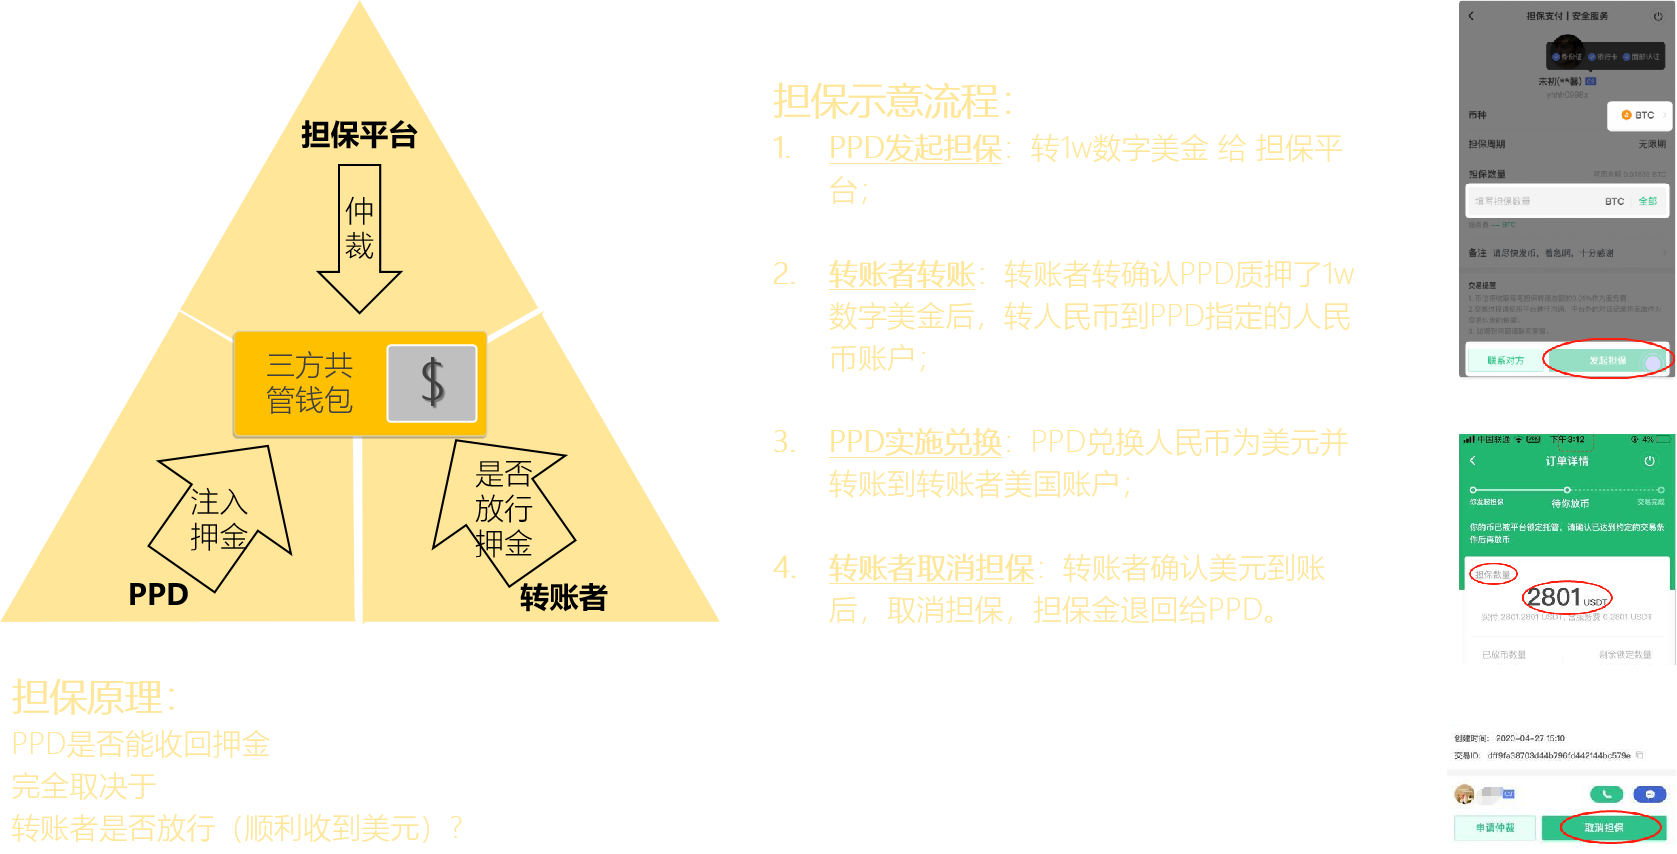
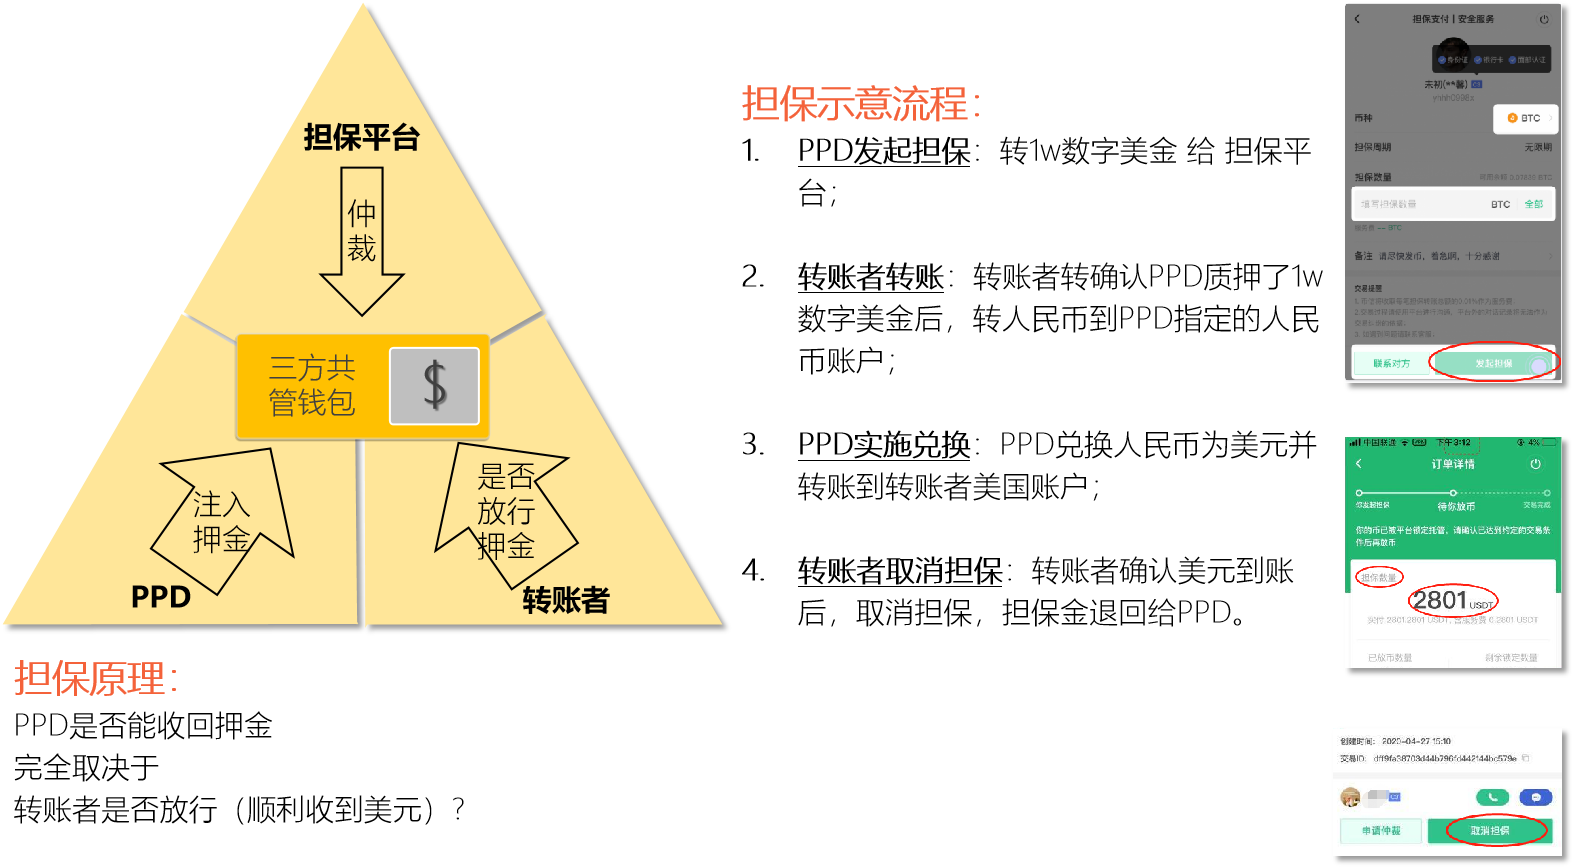
Change pictures to white backgroud and black characters. Rearrage index.md to links to other pages.

diff --git a/index.md b/index.md
@@ -10,16 +10,6 @@ header:
 
 
 sections:
-  - type: call-to-action.html
-    section_id: about
-    background_style: bg-primary
-    title: 跨境瞬移!
-    text: 虫洞能将复仇者联盟传送到2014的纽约！用虫洞将“资产传送到美国”，小菜一碟！
-    actions:
-      - title: 马上开始!
-        url: '#page-top'
-        class: btn-light
-
   - type: services.html
     section_id: services
     #background_style: bg-info
@@ -38,10 +28,20 @@ sections:
       - title: 费用实惠
         text: 无汇差（按中行实时汇率），仅4.9%服务费！
         icon: fa-heart
-      - title: 了解详情
+      - title: 马上开始
         text: 点击以下链接！
         icon: fa-heart
-        url: /services
+        url: /wormhole
+
+  - type: call-to-action.html
+    section_id: about
+    background_style: bg-primary
+    title: 支付方案!
+    text: 通过与PPD的合作，迪拜房产销售商达成了客户及利润倍增的效果！
+    actions:
+      - title: 了解详情!
+        url: '/payment'
+        class: btn-light
 
   - type: portfolio.html
     # this section has always ID 'portfolio'
@@ -76,14 +76,6 @@ sections:
         icon: 6.jpg
         url: '#'      
 
-  - type: aside.html
-    section_id: aside
-    title: 开始免费咨询
-    actions:
-      - title: Telegram us!
-        url: https://t.me/PPD_CustomerService
-        class: btn-light
-
   - type: timeline.html
     section_id: timeline
     title: 发展历程！
@@ -105,6 +97,14 @@ sections:
           2020
           出国留学汇款          
         text: >-
+
+  - type: aside.html
+    section_id: aside
+    title: 开始免费咨询
+    actions:
+      - title: Telegram us!
+        url: https://t.me/PPD_CustomerService
+        class: btn-light
 
   - type: contact.html
     section_id: contacts

diff --git a/wormhole.md b/wormhole.md
@@ -14,9 +14,9 @@ menus:
 
 			虫洞服务：**人民币兑换为美金，并转账到美国账户，1小时到账！**
 
-![4](assets/img/wormhole/4.png)
+<img src="assets/img/wormhole/4.png" style="zoom:75%;" />
 
-							<img src="assets/img/wormhole/fast1.png" style="zoom: 45%;" />	虫洞能将复仇者联盟 传送到2014的纽约；用虫洞将“资产传送到美国” 小菜一碟！
+							<img src="assets/img/wormhole/fast.png" style="zoom:45%;" />	虫洞能将复仇者联盟 传送到2014的纽约；用虫洞将“资产传送到美国” 小菜一碟！
 
 ------
 
@@ -39,7 +39,7 @@ menus:
 
    通过虫洞服务：以上两位客户，PPD均在1小时，突破额度限制把人民币兑换为美金，并转账到客户美国账户！
 
-   						<img src="assets/img/wormhole/fitto1.png" style="zoom:45%;" />     留学费用转账；预防人民币通货膨胀，配置美元资产；美国投资or买房……
+   						<img src="assets/img/wormhole/fitto.png" style="zoom:45%;" />     留学费用转账；预防人民币通货膨胀，配置美元资产；美国投资or买房……
 
    ------
 
@@ -51,7 +51,7 @@ menus:
 
 ### <img src="assets/img/wormhole/logo2.png" alt="logo2" style="zoom: 5%;" /> 虫洞服务 独到之处
 
-<img src="assets/img/wormhole/special1.png" style="zoom:60%;" />
+<img src="assets/img/wormhole/special.png" style="zoom:60%;" />
 
 			这四个独到之处，是为什么PPD可以提供“**虫洞服务**”的根本原因！
 

diff --git a/payment.md b/payment.md
@@ -16,7 +16,7 @@ menus:
 
 		通过与PPD的合作，迪拜房产销售商达成了客户及利润倍增的效果！
 
-<img src="assets/img/wormhole/double.png" alt="倍增效果" style="zoom:80%;" />
+<img src="assets/img/wormhole/double.png" alt="倍增效果" style="zoom:60%;" />
 
 		增加一个通道自然客户增加很多，同时提升了交易体验和杜绝了资金风险，这样提升了交易成功率；所以利润倍增！
 
